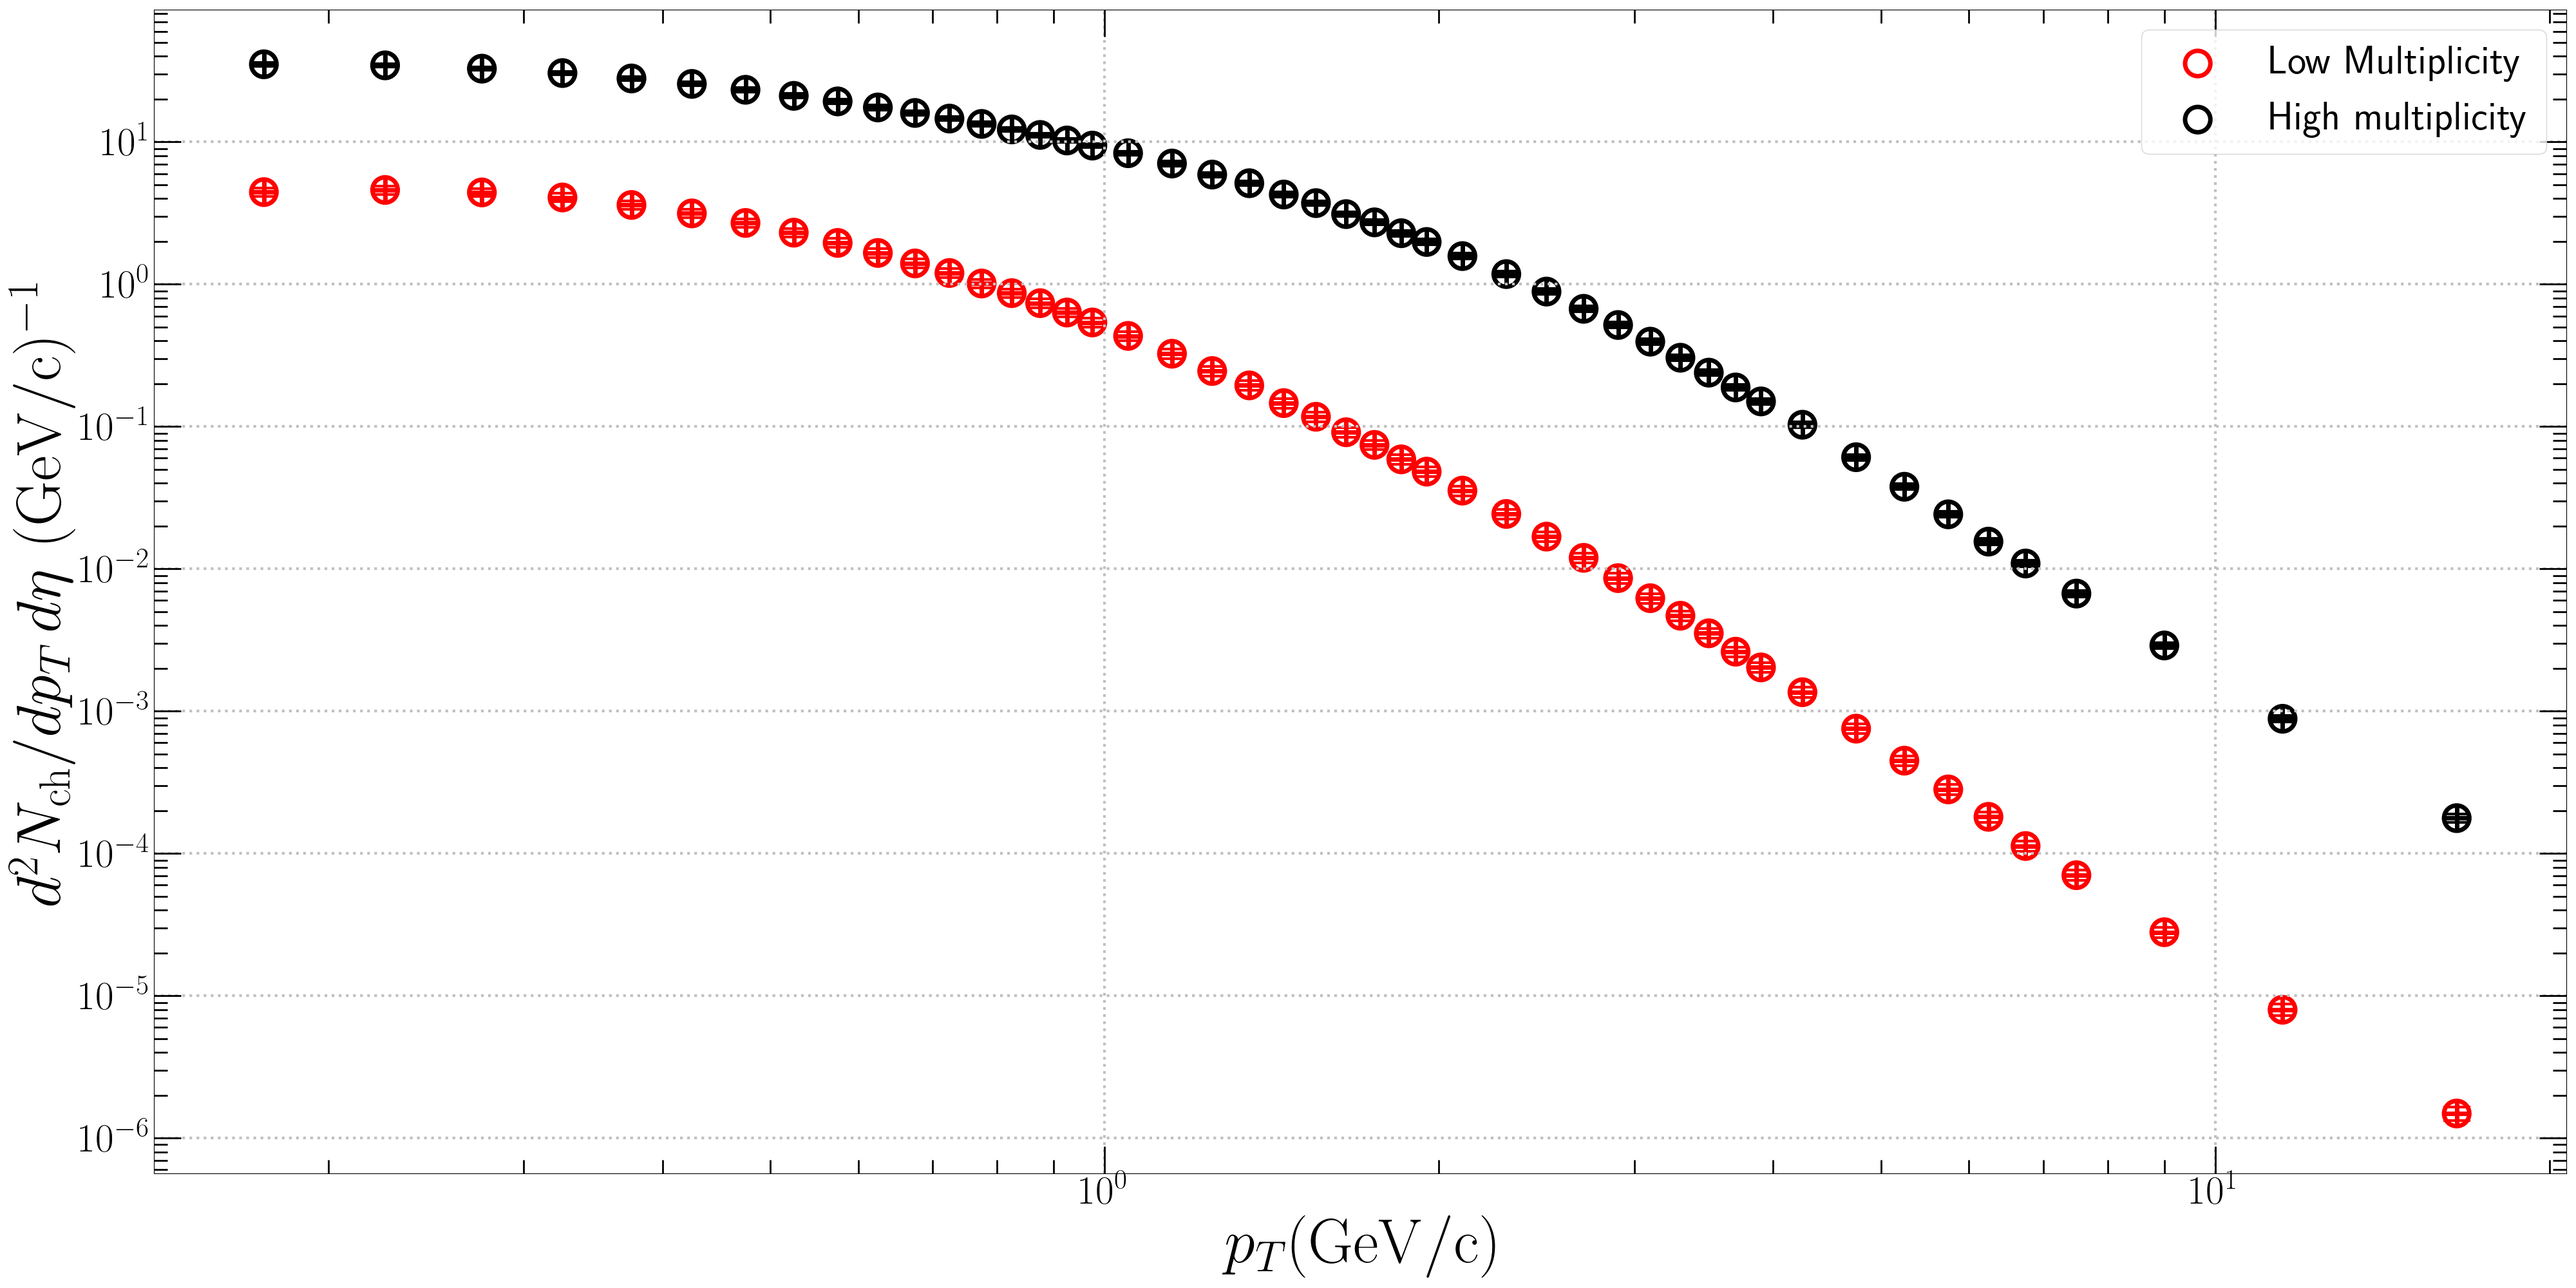
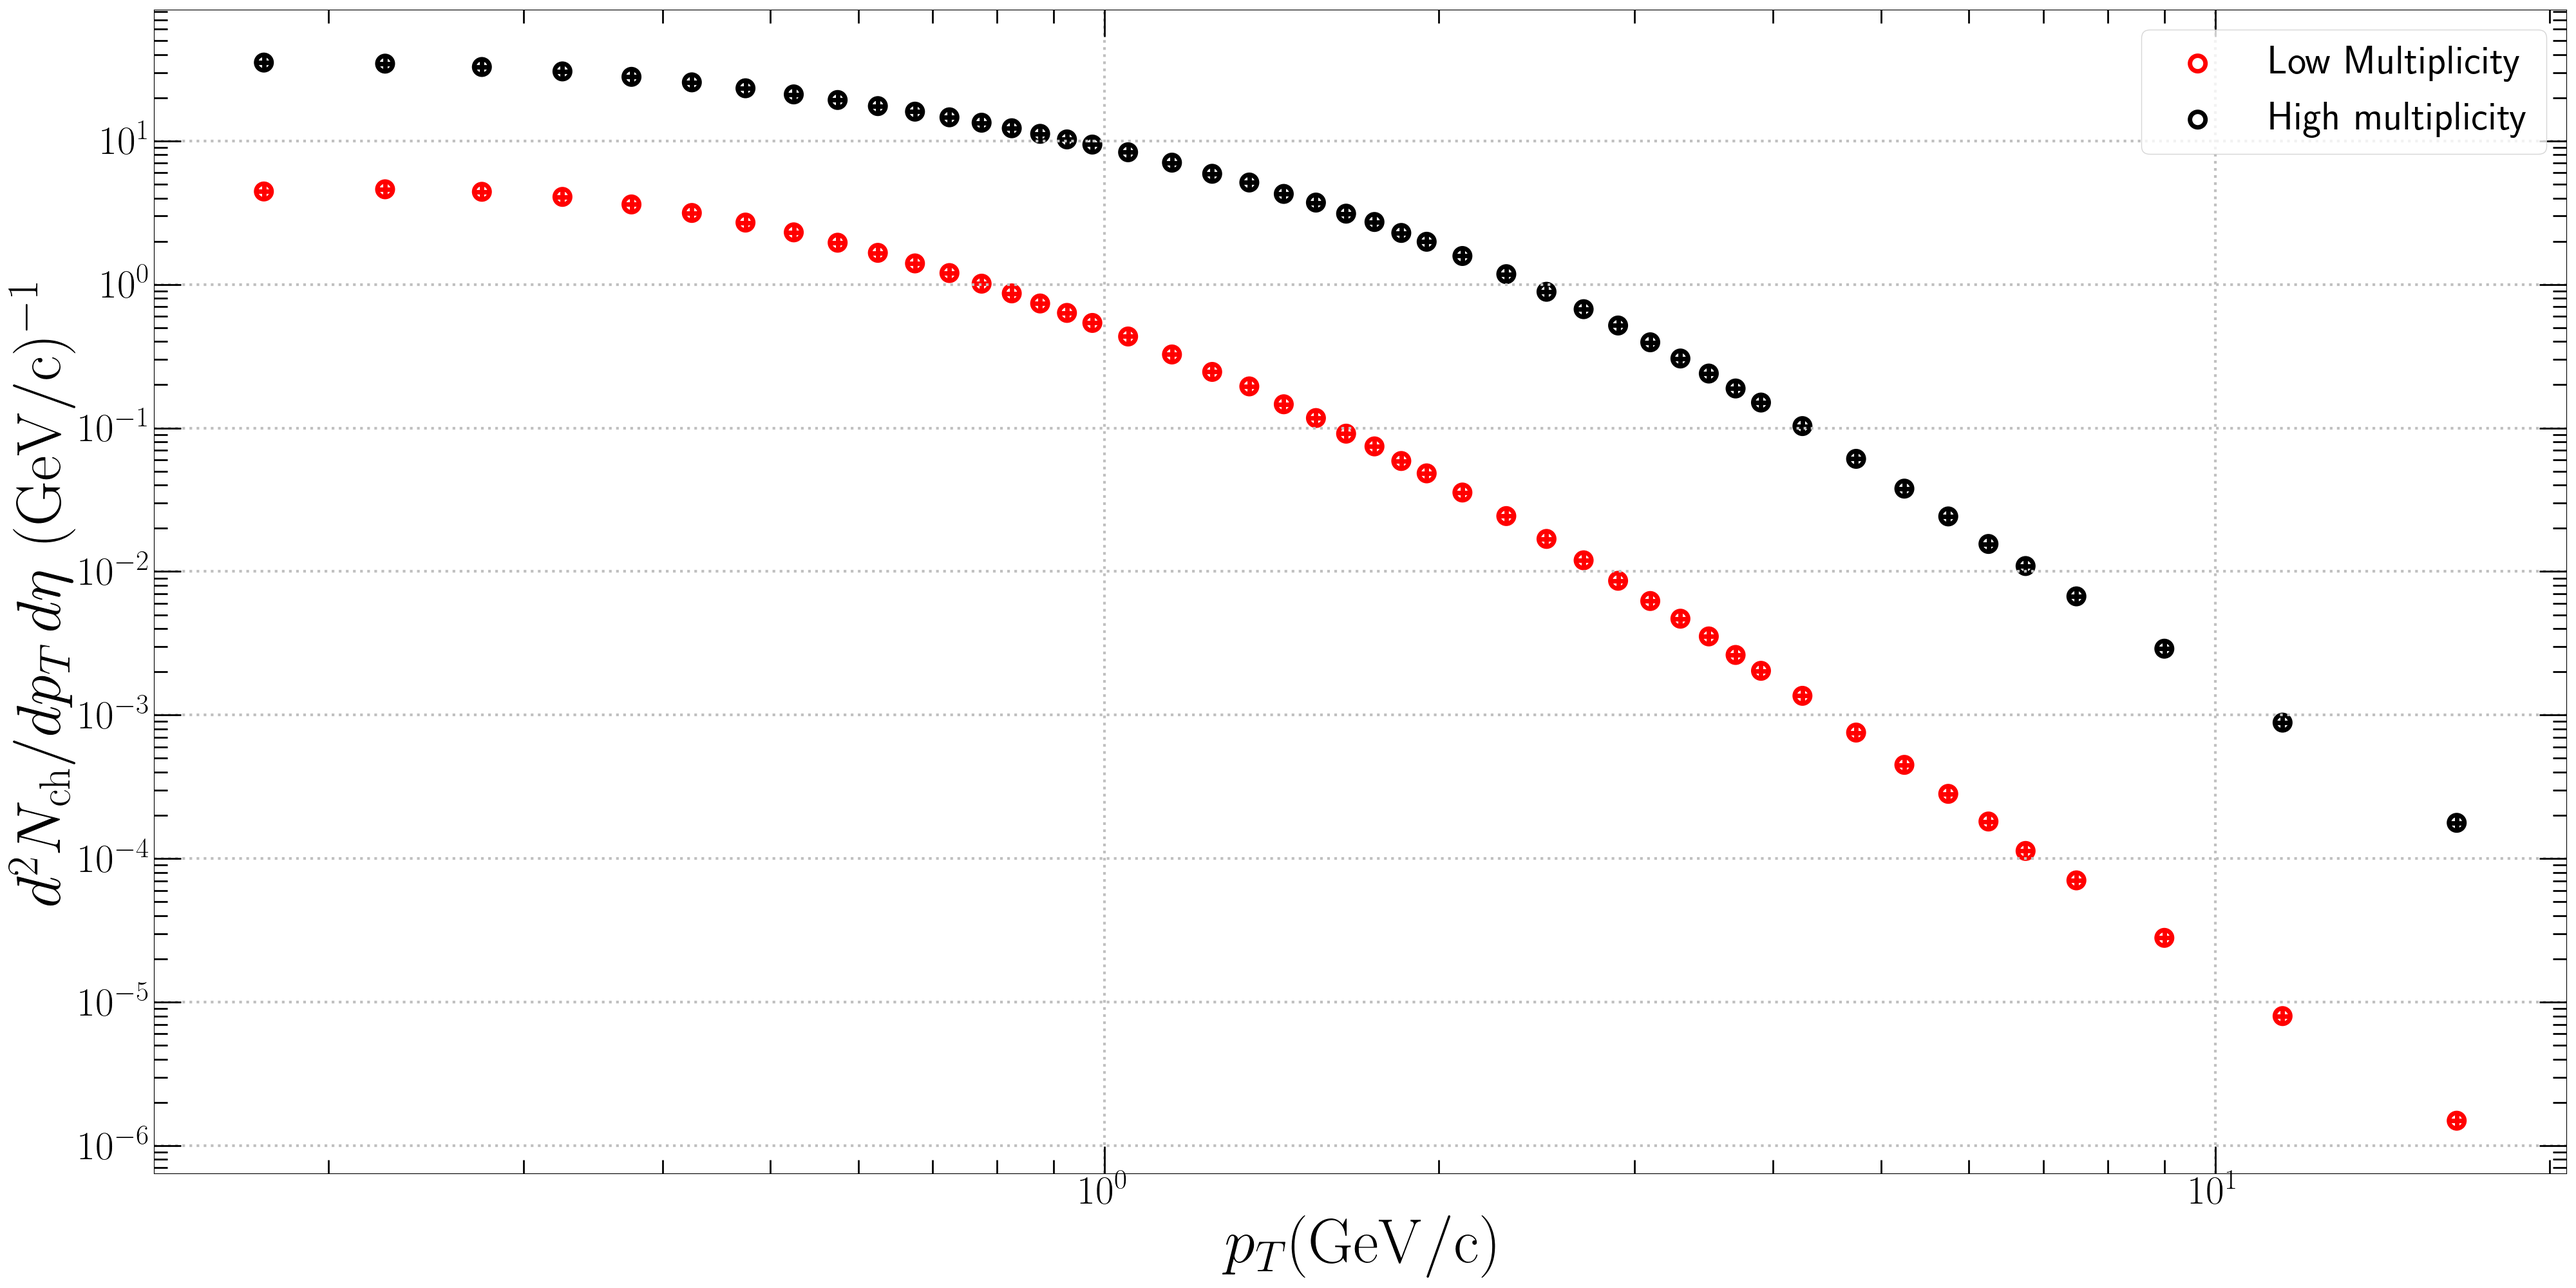
Add ChargedParticle pT distribution
곧 지울거임.

diff --git a/main_class.py b/main_class.py
@@ -29,10 +29,12 @@ path = ['./data/atldata/13TeV/', './data/alidata/', './data/cmsdata/', './data/a
 x_13TeV_pTdistTotal = [] # pT
 y_13TeV_pTdistTotal = [] # d^2N/dpTdeta
 err_13TeV_pTdistTotal = [] # Error
+pTrange_13TeV_pTdistTotal = []
 # High multiplicity pT distribution
 x_13TeV_pTdistHigh = [] # pT
 y_13TeV_pTdistHigh = [] # d^2N/dpTdeta
 err_13TeV_pTdistHigh = [] # Error
+pTrange_13TeV_pTdistHigh = []
 # correlation이 아닌데 사용해도 되나?
 def pTdist():
     x_13TeV_pTdistTotal.append(np.loadtxt(path[1]+'ChargedParticle/Table3.csv', delimiter=',', usecols=[0], skiprows=13, max_rows=47))
@@ -43,6 +45,8 @@ def pTdist():
     err_sys2 = np.loadtxt(path[1]+'ChargedParticle/Table3.csv', delimiter=',', usecols=[7], skiprows=13, max_rows=47)
     err_13TeV_pTdistTotal.append((err_sta1**2+err_sys1**2)**0.5)
     err_13TeV_pTdistTotal.append((err_sta2**2+err_sys2**2)**0.5)
+    pTlow_13TeV_pTdistTotal = np.loadtxt(path[1]+'ChargedParticle/Table3.csv', delimiter=',', usecols=[1], skiprows=13, max_rows=47)
+    pThig_13TeV_pTdistTotal = np.loadtxt(path[1]+'ChargedParticle/Table3.csv', delimiter=',', usecols=[2], skiprows=13, max_rows=47)
 
     x_13TeV_pTdistHigh.append(np.loadtxt(path[1]+'ChargedParticle/Table3.csv', delimiter=',', usecols=[0], skiprows=481, max_rows=47))
     y_13TeV_pTdistHigh.append(np.loadtxt(path[1]+'ChargedParticle/Table3.csv', delimiter=',', usecols=[3], skiprows=481, max_rows=47))
@@ -52,6 +56,11 @@ def pTdist():
     err_sys2 = np.loadtxt(path[1]+'ChargedParticle/Table3.csv', delimiter=',', usecols=[7], skiprows=481, max_rows=47)
     err_13TeV_pTdistHigh.append((err_sta1**2+err_sys1**2)**0.5)
     err_13TeV_pTdistHigh.append((err_sta2**2+err_sys2**2)**0.5)
+    pTlow_13TeV_pTdistHigh = np.loadtxt(path[1]+'ChargedParticle/Table3.csv', delimiter=',', usecols=[1], skiprows=481, max_rows=47)
+    pThig_13TeV_pTdistHigh = np.loadtxt(path[1]+'ChargedParticle/Table3.csv', delimiter=',', usecols=[2], skiprows=481, max_rows=47)
+    for a, b, c, d in zip(pTlow_13TeV_pTdistTotal, pThig_13TeV_pTdistTotal, pTlow_13TeV_pTdistHigh, pThig_13TeV_pTdistHigh):
+        pTrange_13TeV_pTdistTotal.append((a, b))
+        pTrange_13TeV_pTdistHigh.append((c, d))
 pTdist()
 
 '''Multiplicity Dependence'''
@@ -395,8 +404,8 @@ def fit_multipl():
     global ptdep_result
     # boundary = (0,20)       # fitting 개수 1개인 경우
     # initial = (1)           # fitting 개수 1개인 경우
-    boundary = ((0.000001, 0), (5, 1000000))
-    initial = (0.0001, 30000)
+    boundary = ((0.1, 0), (5, 100))
+    initial = (0.5, 5)
     print("High multiplicity results : ", ptdep_result)
     highmulti_Temp = ptdep_result[1]        # 만약, 13TeV fitting을 안돌릴 경우 여기에 상수를 대입해야 함.
     Fixed_Temperature = classes.Fitting_gpu.Fixed_Temp(meanpTvsnch_13TeV[0], meanpTvsnch_13TeV[1], highmulti_Temp)
@@ -836,12 +845,12 @@ def drawgraph_multi_phicorr():
 def draw_13TeV_ptdist():
     fig2, axis2 = plt.subplots(nrows=1, ncols=1,figsize=(40,20))
     '''Line'''
-    axis2.errorbar(x_13TeV_pTdistTotal[0], y_13TeV_pTdistTotal[0], yerr=(abs(err_13TeV_pTdistTotal[0]),err_13TeV_pTdistTotal[1]), color="red", linestyle=' ', linewidth=5, capthick=3, capsize=15, zorder=0)
-    axis2.errorbar(x_13TeV_pTdistHigh[0], y_13TeV_pTdistHigh[0], yerr=(abs(err_13TeV_pTdistHigh[0]),err_13TeV_pTdistHigh[1]), color="black", linestyle=' ', linewidth=5, capthick=3, capsize=15, zorder=0)
-    axis2.scatter(x_13TeV_pTdistTotal[0], y_13TeV_pTdistTotal[0], edgecolors="red", s=800, marker='o', facecolors='none', linewidths=5, zorder=0, label="Low Multiplicity")
-    axis2.scatter(x_13TeV_pTdistTotal[0], y_13TeV_pTdistTotal[0], s=800, marker='+', facecolors='red', linewidths=5, zorder=0)
-    axis2.scatter(x_13TeV_pTdistHigh[0], y_13TeV_pTdistHigh[0], edgecolors="black", s=800, marker='o', facecolors='none', linewidths=5, zorder=0, label="High multiplicity")
-    axis2.scatter(x_13TeV_pTdistHigh[0], y_13TeV_pTdistHigh[0], s=800, marker='+', facecolors='black', linewidths=5, zorder=0)
+    # axis2.errorbar(x_13TeV_pTdistTotal[0], y_13TeV_pTdistTotal[0], yerr=(abs(err_13TeV_pTdistTotal[0]),err_13TeV_pTdistTotal[1]), color="red", linestyle=' ', linewidth=5, capthick=3, capsize=15, zorder=0)
+    # axis2.errorbar(x_13TeV_pTdistHigh[0], y_13TeV_pTdistHigh[0], yerr=(abs(err_13TeV_pTdistHigh[0]),err_13TeV_pTdistHigh[1]), color="black", linestyle=' ', linewidth=5, capthick=3, capsize=15, zorder=0)
+    axis2.scatter(x_13TeV_pTdistTotal[0], y_13TeV_pTdistTotal[0], edgecolors="red", s=300, marker='o', facecolors='none', linewidths=5, zorder=0, label="Low Multiplicity")
+    axis2.scatter(x_13TeV_pTdistTotal[0], y_13TeV_pTdistTotal[0], s=300, marker='+', facecolors='red', linewidths=5, zorder=0)
+    axis2.scatter(x_13TeV_pTdistHigh[0], y_13TeV_pTdistHigh[0], edgecolors="black", s=300, marker='o', facecolors='none', linewidths=5, zorder=0, label="High multiplicity")
+    axis2.scatter(x_13TeV_pTdistHigh[0], y_13TeV_pTdistHigh[0], s=300, marker='+', facecolors='black', linewidths=5, zorder=0)
 
     axis2.set_xlabel(r'$p_T \mathrm{(GeV/c)}$', size=70)
     axis2.set_ylabel(r'$d^2N_{\mathrm{ch}}/d p_T \, d\eta \,\, \mathrm{(GeV/c)^{-1}}$', size=70)
